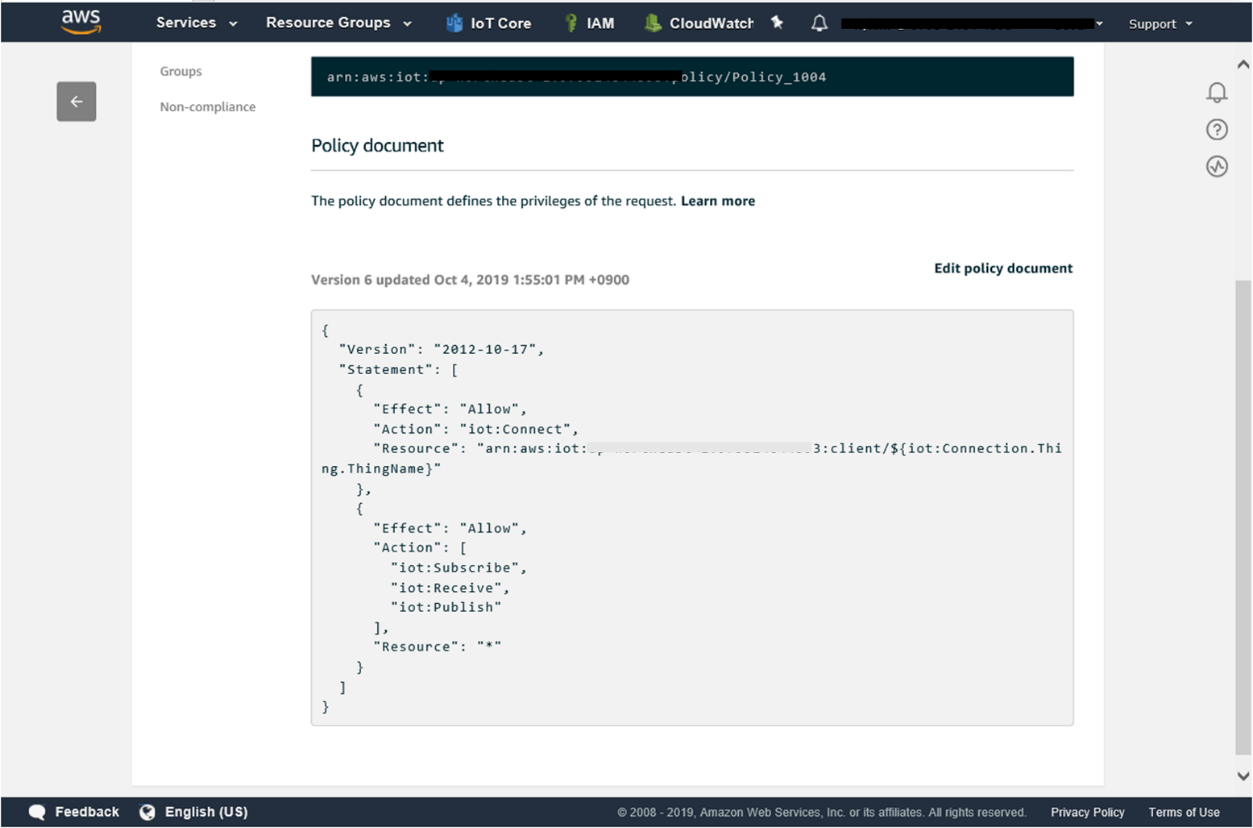
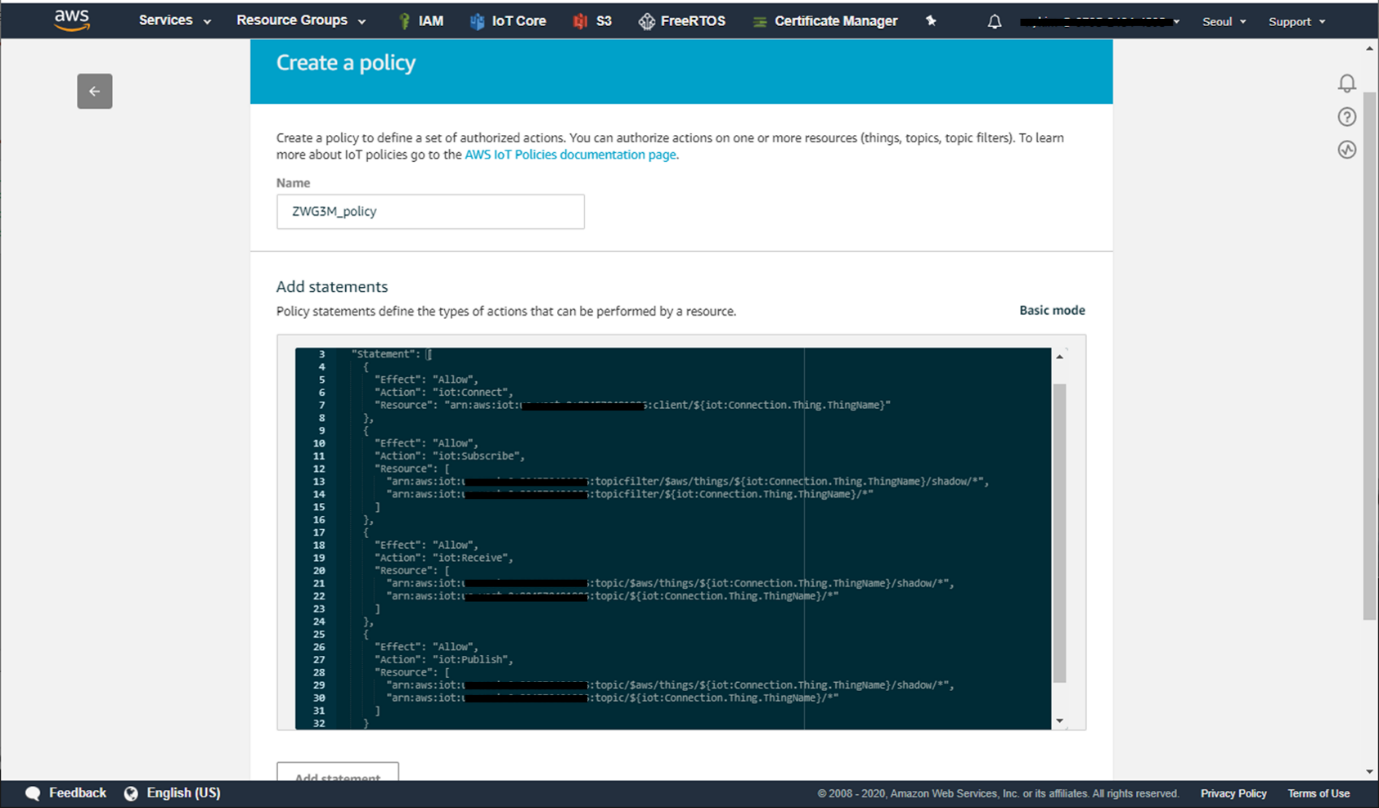
typo fixed (zwg3m-Certificate.html : derail -> detail) policy modified (zwg3m-GettingStarted-FreeRTOS-Demo.html)

diff --git a/zwg3m-GettingStarted-FreeRTOS-Demo.html b/zwg3m-GettingStarted-FreeRTOS-Demo.html
@@ -7,7 +7,7 @@
 	<META NAME="AUTHOR" CONTENT="nayoung kim">
 	<META NAME="CREATED" CONTENT="20200708;44000000000000">
 	<META NAME="CHANGEDBY" CONTENT="nayoung kim">
-	<META NAME="CHANGED" CONTENT="20200805;24200000000000">
+	<META NAME="CHANGED" CONTENT="20200806;13200000000000">
 	<META NAME="AppVersion" CONTENT="16.0000">
 	<META NAME="DocSecurity" CONTENT="0">
 	<META NAME="HyperlinksChanged" CONTENT="false">
@@ -271,7 +271,7 @@ to AWS IoT Core </B></FONT></FONT></FONT>
 	</P>
 </OL>
 <P ALIGN=LEFT STYLE="margin-left: 0.5in; margin-bottom: 0.17in; background: #ffffff; line-height: 100%; widows: 2; orphans: 2">
-<IMG SRC="img/zwg3m-GettingStarted-FreeRTOS-Demo/img9.png" NAME="그림 2" ALIGN=BOTTOM WIDTH=485 HEIGHT=271 BORDER=0></P>
+<IMG SRC="img/zwg3m-GettingStarted-FreeRTOS-Demo/img10.png" NAME="그림 2" ALIGN=BOTTOM WIDTH=485 HEIGHT=271 BORDER=0></P>
 <OL START=4>
 	<LI><P ALIGN=LEFT STYLE="margin-bottom: 0.17in; background: #ffffff; line-height: 100%; widows: 2; orphans: 2">
 	<FONT COLOR="#24292e"><FONT FACE="Segoe UI, serif"><FONT SIZE=3>Click
@@ -279,8 +279,8 @@ to AWS IoT Core </B></FONT></FONT></FONT>
 	</P>
 	<LI><P ALIGN=LEFT STYLE="margin-bottom: 0.17in; background: #ffffff; line-height: 100%; widows: 2; orphans: 2">
 	<FONT COLOR="#24292e"><FONT FACE="Segoe UI, serif"><FONT SIZE=3>On
-	the Certificate page, choose Use </FONT></FONT></FONT><FONT COLOR="#24292e"><FONT FACE="Segoe UI, serif"><FONT SIZE=3><B>my
-	certificate</B></FONT></FONT></FONT><FONT COLOR="#24292e"><FONT FACE="Segoe UI, serif"><FONT SIZE=3>.</FONT></FONT></FONT></P>
+	the Certificate page, choose </FONT></FONT></FONT><FONT COLOR="#24292e"><FONT FACE="Segoe UI, serif"><FONT SIZE=3><B>Use
+	my certificate</B></FONT></FONT></FONT><FONT COLOR="#24292e"><FONT FACE="Segoe UI, serif"><FONT SIZE=3>.</FONT></FONT></FONT></P>
 	<LI><P ALIGN=LEFT STYLE="margin-bottom: 0.17in; background: #ffffff; line-height: 100%; widows: 2; orphans: 2">
 	<FONT COLOR="#24292e"><FONT FACE="Segoe UI, serif"><FONT SIZE=3><B>Select
 	or register CA</B></FONT></FONT></FONT><FONT COLOR="#24292e"><FONT FACE="Segoe UI, serif"><FONT SIZE=3>
@@ -296,11 +296,18 @@ to AWS IoT Core </B></FONT></FONT></FONT>
 	under Secure menu</FONT></FONT></FONT></P>
 	<LI><P ALIGN=LEFT STYLE="margin-bottom: 0.17in; background: #ffffff; line-height: 100%; widows: 2; orphans: 2">
 	<FONT COLOR="#24292e"><FONT FACE="Segoe UI, serif"><FONT SIZE=3>Click
-	on the create button and defines a set of policy actions </FONT></FONT></FONT>
+	on the create button and defines a set of policy for the best
+	security practice. </FONT></FONT></FONT>
 	</P>
 </OL>
 <P ALIGN=LEFT STYLE="margin-left: 0.25in; margin-bottom: 0.17in; background: #ffffff; line-height: 100%; widows: 2; orphans: 2">
-<IMG SRC="img/zwg3m-GettingStarted-FreeRTOS-Demo/img4.png" NAME="그림 6" ALIGN=BOTTOM WIDTH=545 HEIGHT=360 BORDER=0></P>
+<IMG SRC="img/zwg3m-GettingStarted-FreeRTOS-Demo/img4.png" NAME="그림 5" ALIGN=BOTTOM WIDTH=601 HEIGHT=352 BORDER=0></P>
+<P ALIGN=LEFT STYLE="margin-left: 0.25in; margin-bottom: 0.17in; background: #ffffff; line-height: 100%; widows: 2; orphans: 2">
+<FONT COLOR="#24292e"><FONT FACE="Segoe UI, serif"><FONT SIZE=3>&lt;
+policy statements&gt; </FONT></FONT></FONT>
+</P>
+<P ALIGN=LEFT STYLE="margin-left: 0.25in; margin-bottom: 0.17in; background: #ffffff; line-height: 100%; widows: 2; orphans: 2">
+<IMG SRC="img/zwg3m-GettingStarted-FreeRTOS-Demo/img9.png" NAME="그림 7" ALIGN=BOTTOM WIDTH=500 HEIGHT=426 BORDER=0></P>
 <OL START=10>
 	<LI><P ALIGN=LEFT STYLE="margin-bottom: 0.17in; background: #ffffff; line-height: 100%; widows: 2; orphans: 2">
 	<FONT COLOR="#24292e"> <FONT FACE="Segoe UI, serif"><FONT SIZE=3>Go

diff --git a/zwg3m-Certificate.html b/zwg3m-Certificate.html
@@ -57,7 +57,7 @@
 
         <div class="rect-block">
             <div class="rect-label"> Write your certificate to ZWG3M: </div><br>
-			g3 password will be set differently with client’s request. Unless defined, it is set to default value : 11223344 . Please contact puf@ictk.com for derail information.
+			g3 password will be set differently with client’s request. Unless defined, it is set to default value : 11223344 . Please contact puf@ictk.com for detail information.
             <div class="rect-body">
                 <ol>
                     <li>Download test example script from the ICTK GitHub repository <a
